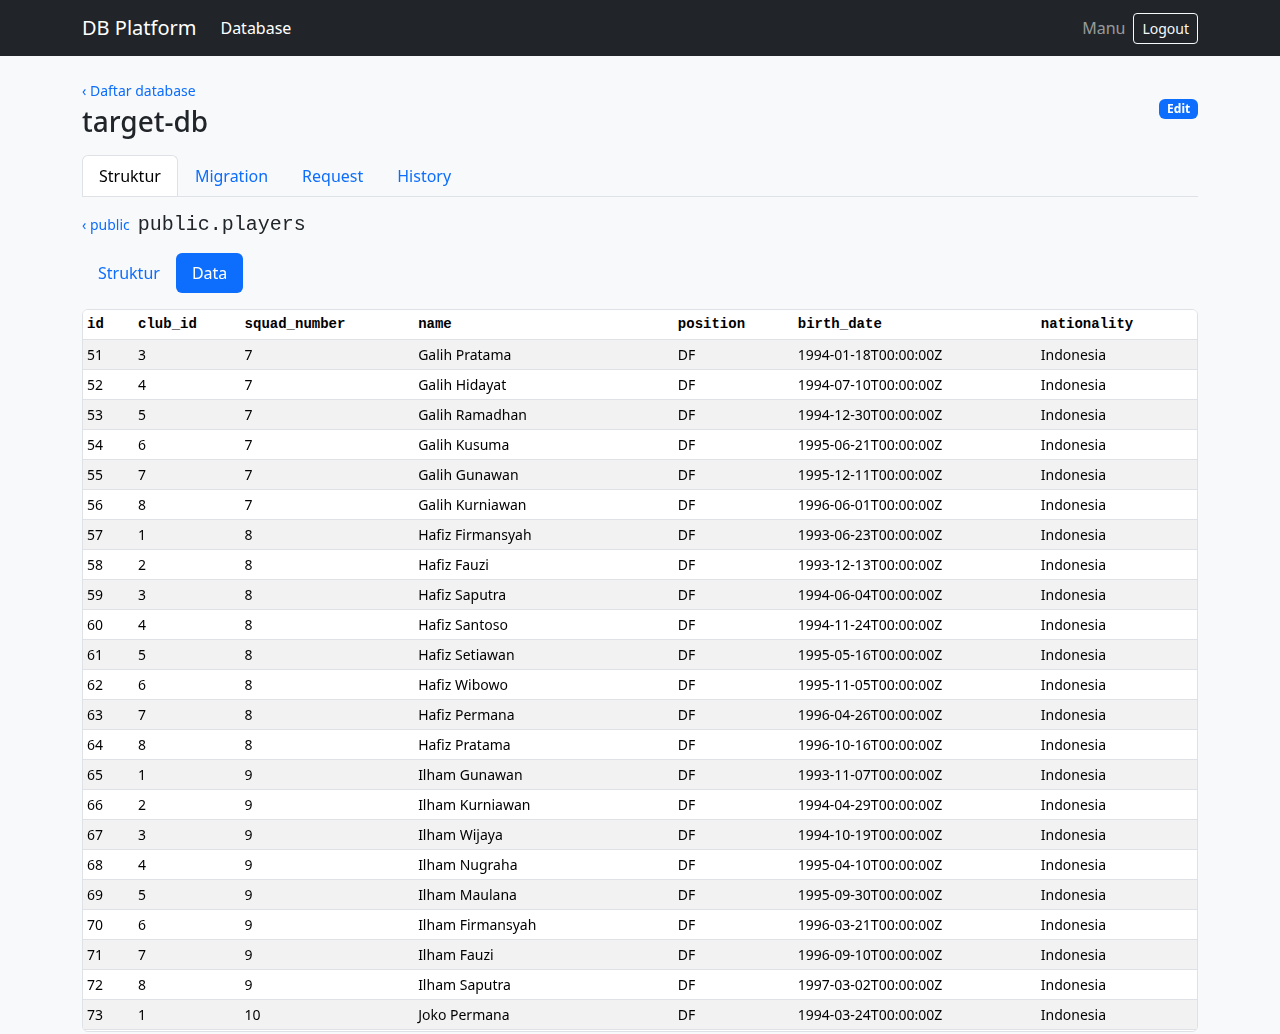
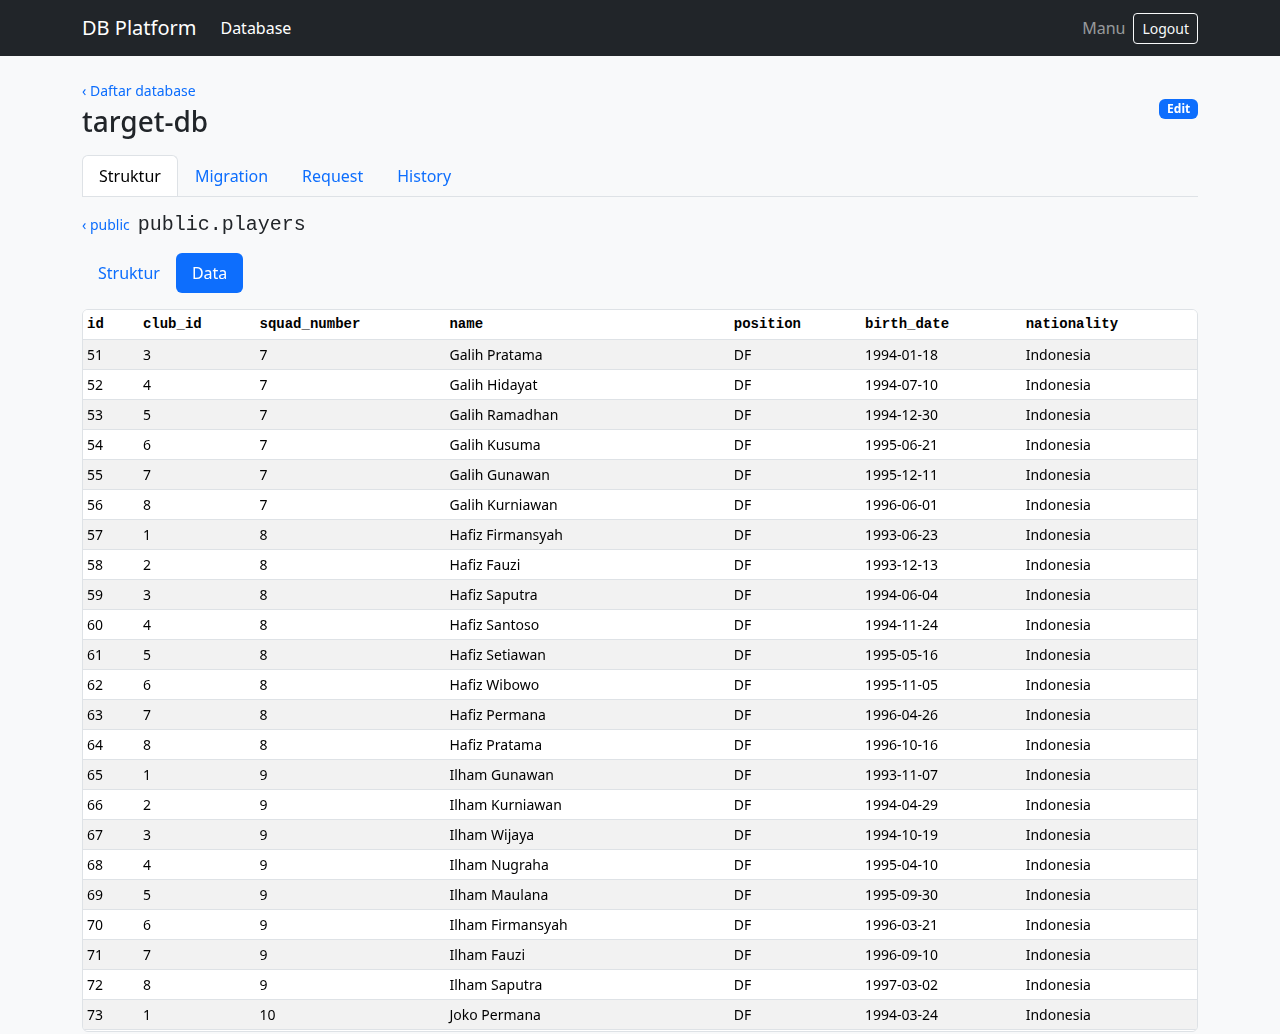
fix: format tanggal viewer dan nama user di request serta history

diff --git a/frontend/src/pages/workflow/RequestDetail.jsx b/frontend/src/pages/workflow/RequestDetail.jsx
@@ -125,7 +125,7 @@ export function RequestDetail() {
               <h3 className="h6">Info</h3>
               <dl className="row mb-0">
                 <dt className="col-5 fw-normal text-secondary">Pengaju</dt>
-                <dd className="col-7">{actorName(r.requested_by, user)}</dd>
+                <dd className="col-7">{actorName(r.requested_by, user, r.requested_by_name)}</dd>
                 <dt className="col-5 fw-normal text-secondary">Revisi</dt>
                 <dd className="col-7">{r.revision}</dd>
                 {r.target_execution_id && (
@@ -224,7 +224,7 @@ function Approvals({ request, me }) {
                     )}
                     {a.can_approve && <span className="badge text-bg-info ms-1">Kamu bisa menyetujui</span>}
                   </td>
-                  <td>{actorName(a.approved_by, me)}</td>
+                  <td>{actorName(a.approved_by, me, a.approved_by_name)}</td>
                   <td className="text-nowrap">{formatTime(a.approved_at)}</td>
                 </tr>
               ))}

diff --git a/frontend/src/components/labels.js b/frontend/src/components/labels.js
@@ -55,8 +55,9 @@ export function formatTime(value) {
   return date.toLocaleString('id-ID', { dateStyle: 'medium', timeStyle: 'short' })
 }
 
-// nama aktor: "Kamu" kalau ID-nya sama dengan user login, selain itu "User #id"
-export function actorName(id, me) {
+// user login ditandai "Kamu"; selain itu pakai nama dari API, fallback ke ID kalau API ga ngirim nama
+export function actorName(id, me, name) {
   if (!id) return '—'
-  return id === me?.id ? 'Kamu' : `User #${id}`
+  if (id === me?.id) return 'Kamu'
+  return name || `User #${id}`
 }

diff --git a/frontend/src/pages/workflow/ExecutionDetail.jsx b/frontend/src/pages/workflow/ExecutionDetail.jsx
@@ -73,7 +73,7 @@ export function ExecutionDetail() {
                   </>
                 )}
                 <dt className="col-5 fw-normal text-secondary">Oleh</dt>
-                <dd className="col-7">{actorName(e.executed_by, user)}</dd>
+                <dd className="col-7">{actorName(e.executed_by, user, e.executed_by_name)}</dd>
                 {e.progress?.committed_rows > 0 && (
                   <>
                     <dt className="col-5 fw-normal text-secondary">Row ter-commit</dt>

diff --git a/frontend/src/pages/workflow/History.jsx b/frontend/src/pages/workflow/History.jsx
@@ -89,7 +89,7 @@ export function History() {
                   <td>
                     <JobStatusBadge status={e.status} />
                   </td>
-                  <td>{actorName(e.executed_by, user)}</td>
+                  <td>{actorName(e.executed_by, user, e.executed_by_name)}</td>
                   <td className="text-nowrap">{formatTime(e.started_at)}</td>
                   <td className="text-nowrap">{formatTime(e.finished_at)}</td>
                 </tr>

diff --git a/frontend/src/pages/workflow/Requests.jsx b/frontend/src/pages/workflow/Requests.jsx
@@ -56,7 +56,7 @@ export function Requests() {
                   <td>
                     <ReviewStatusBadge status={r.review_status} />
                   </td>
-                  <td>{actorName(r.requested_by, user)}</td>
+                  <td>{actorName(r.requested_by, user, r.requested_by_name)}</td>
                   <td className="small text-nowrap">{formatTime(r.created_at)}</td>
                 </tr>
               ))}

diff --git a/frontend/src/components/labels.test.js b/frontend/src/components/labels.test.js
@@ -10,6 +10,7 @@ it('formatTime aman buat null dan string aneh', () => {
 it('actorName nandain user login sebagai Kamu', () => {
   expect(actorName('1', { id: '1' })).toBe('Kamu')
   expect(actorName('7', { id: '1' })).toBe('User #7')
+  expect(actorName('7', { id: '1' }, 'Akram')).toBe('Akram')
   expect(actorName(null, { id: '1' })).toBe('—')
 })
 

diff --git a/src/migration/history.go b/src/migration/history.go
@@ -36,6 +36,8 @@ type ExecutionResponse struct {
 	FinishedAt        *time.Time  `json:"finished_at"`
 	ErrorMessage      *string     `json:"error_message"`
 	SQLState          *string     `json:"sqlstate"`
+	MigrationTitle    string      `json:"migration_title"`
+	ExecutedByName    string      `json:"executed_by_name"`
 }
 
 type BatchAttempt struct {
@@ -77,6 +79,7 @@ func executionResponse(databaseID int64, execution Execution) ExecutionResponse 
 		TargetExecutionID: execution.TargetExecutionID, HistorySequence: execution.HistorySequence,
 		SQLSnapshot: execution.SQLSnapshot, Status: execution.Status, Progress: execution.Progress,
 		StartedAt: execution.StartedAt.UTC(), SQLState: execution.SQLState,
+		MigrationTitle: execution.MigrationTitle, ExecutedByName: execution.ExecutedByName,
 	}
 	if execution.FinishedAt.Valid {
 		finished := execution.FinishedAt.Time.UTC()
@@ -94,6 +97,10 @@ const databaseHistory = `WITH database_executions AS (
 	JOIN migrations m ON m.id = e.migration_id WHERE e.database_id = $1 AND m.database_id = $1
 ) `
 
+// judul migration dan nama pelaksana buat tampilan, biar SPA ga perlu nanya API admin
+const historyLabelColumns = `, (SELECT title FROM migrations WHERE id = e.migration_id),
+	(SELECT display_name FROM users WHERE id = e.executed_by)`
+
 // Pasangan hanya sah jika up/forward dan rollback sama-sama sukses pada migration yang sama.
 const historyListSQL = databaseHistory + `, rollback_pairs AS (
 	SELECT r.id, r.target_execution_id FROM database_executions r
@@ -102,7 +109,7 @@ const historyListSQL = databaseHistory + `, rollback_pairs AS (
 	WHERE r.operation = 'rollback' AND r.status = 'success'
 		AND original.status = 'success' AND original.operation IN ('up', 'forward')
 )
-SELECT ` + executionColumns + ` FROM database_executions e
+SELECT ` + executionColumns + historyLabelColumns + ` FROM database_executions e
 WHERE NOT $2 OR e.id NOT IN (
 	SELECT id FROM rollback_pairs UNION SELECT target_execution_id FROM rollback_pairs
 )
@@ -133,10 +140,12 @@ func GetHistory(ctx context.Context, db *sql.DB, user *auth.User, databaseID int
 	defer rows.Close()
 	executions = []Execution{}
 	for rows.Next() {
-		execution, err := scanExecution(rows)
+		var title, name string
+		execution, err := scanExecution(rows, &title, &name)
 		if err != nil {
 			return nil, false, err
 		}
+		execution.MigrationTitle, execution.ExecutedByName = title, name
 		executions = append(executions, *execution)
 	}
 	if err := rows.Err(); err != nil {
@@ -150,7 +159,7 @@ func GetHistory(ctx context.Context, db *sql.DB, user *auth.User, databaseID int
 	return executions, hasMore, nil
 }
 
-const historyDetailSQL = databaseHistory + `SELECT ` + executionColumns + ` FROM database_executions WHERE id = $2`
+const historyDetailSQL = databaseHistory + `SELECT ` + executionColumns + historyLabelColumns + ` FROM database_executions e WHERE id = $2`
 
 const batchAttemptsSQL = `SELECT id, execution_id, job_id, batch_number, direction,
 	first_id, last_id, sql_snapshot,
@@ -180,13 +189,15 @@ func GetExecutionDetail(ctx context.Context, db *sql.DB, user *auth.User, databa
 		return nil, err
 	}
 	args := []any{databaseID, executionID}
-	execution, err := scanExecution(tx.QueryRowContext(ctx, historyDetailSQL, args...))
+	var title, name string
+	execution, err := scanExecution(tx.QueryRowContext(ctx, historyDetailSQL, args...), &title, &name)
 	if errors.Is(err, sql.ErrNoRows) {
 		return nil, ErrNotFound
 	}
 	if err != nil {
 		return nil, err
 	}
+	execution.MigrationTitle, execution.ExecutedByName = title, name
 	detail = &ExecutionDetail{ExecutionResponse: executionResponse(databaseID, *execution), BatchAttempts: []BatchAttempt{}}
 	args = []any{executionID, limit + 1, offset}
 	rows, err := tx.QueryContext(ctx, batchAttemptsSQL, args...)

diff --git a/src/migration/workflow_reads.go b/src/migration/workflow_reads.go
@@ -49,7 +49,7 @@ func (s WorkflowService) List(ctx context.Context, user *auth.User, databaseID i
 	if err := workflowAuthorize(ctx, s.DB, user, auth.ViewMigration, databaseID); err != nil {
 		return nil, false, err
 	}
-	rows, err := s.DB.QueryContext(ctx, `SELECT `+requestColumns+`
+	rows, err := s.DB.QueryContext(ctx, `SELECT `+requestColumns+requestedByName+`
 		FROM migration_requests WHERE database_id = $1 ORDER BY created_at DESC, id DESC LIMIT $2 OFFSET $3`, databaseID, limit+1, offset)
 	if err != nil {
 		return nil, false, err
@@ -57,10 +57,12 @@ func (s WorkflowService) List(ctx context.Context, user *auth.User, databaseID i
 	defer rows.Close()
 	requests := []MigrationRequest{}
 	for rows.Next() {
-		request, err := scanRequest(rows)
+		var name string
+		request, err := scanRequest(rows, &name)
 		if err != nil {
 			return nil, false, err
 		}
+		request.RequestedByName = name
 		requests = append(requests, *request)
 	}
 	if err := rows.Err(); err != nil {
@@ -87,18 +89,21 @@ func (s WorkflowService) Get(ctx context.Context, user *auth.User, databaseID, r
 	if err := workflowAuthorize(ctx, tx, user, auth.ViewMigration, databaseID); err != nil {
 		return nil, err
 	}
-	request, err := scanRequest(tx.QueryRowContext(ctx, `SELECT `+requestColumns+`
-		FROM migration_requests WHERE database_id = $1 AND id = $2`, databaseID, requestID))
+	var name string
+	request, err := scanRequest(tx.QueryRowContext(ctx, `SELECT `+requestColumns+requestedByName+`
+		FROM migration_requests WHERE database_id = $1 AND id = $2`, databaseID, requestID), &name)
 	if err != nil {
 		return nil, err
 	}
+	request.RequestedByName = name
 	detail := &RequestDetail{MigrationRequest: *request, Approvals: []RequestApproval{}, PendingGroupIDs: []string{}, AllowedActions: []string{}}
 	detail.WorkflowStatus = request.ReviewStatus
 	rows, err := tx.QueryContext(ctx, `
-		SELECT a.group_id, a.group_name_snapshot, a.approved_by, a.approved_at,
+		SELECT a.group_id, a.group_name_snapshot, a.approved_by, approver.display_name, a.approved_at,
 			a.approved_by IS NULL AND (g.is_archived OR u.id IS NULL),
 			a.approved_by IS NULL AND NOT g.is_archived AND u.id = $2
 		FROM migration_approvals a JOIN groups g ON g.id = a.group_id
+		LEFT JOIN users approver ON approver.id = a.approved_by
 		LEFT JOIN users u ON u.id = g.leader_user_id AND u.is_active
 			AND EXISTS (SELECT 1 FROM user_groups ug WHERE ug.group_id = g.id AND ug.user_id = u.id)
 		WHERE a.request_id = $1 ORDER BY a.group_id`, requestID, user.ID)
@@ -108,7 +113,7 @@ func (s WorkflowService) Get(ctx context.Context, user *auth.User, databaseID, r
 	for rows.Next() {
 		var approval RequestApproval
 		var canApprove sql.NullBool
-		if err := rows.Scan(&approval.GroupID, &approval.GroupName, &approval.ApprovedBy, &approval.ApprovedAt, &approval.WaitingForLeader, &canApprove); err != nil {
+		if err := rows.Scan(&approval.GroupID, &approval.GroupName, &approval.ApprovedBy, &approval.ApprovedByName, &approval.ApprovedAt, &approval.WaitingForLeader, &canApprove); err != nil {
 			rows.Close()
 			return nil, err
 		}

diff --git a/src/migration/workflow.go b/src/migration/workflow.go
@@ -56,6 +56,7 @@ type MigrationRequest struct {
 	SourceJobID       *int64             `json:"source_job_id,string"`
 	ReviewStatus      string             `json:"review_status"`
 	RequestedBy       int64              `json:"requested_by,string"`
+	RequestedByName   string             `json:"requested_by_name,omitempty"` // cuma diisi list dan detail
 	Snapshot          DefinitionSnapshot `json:"snapshot"`
 	CreatedAt         time.Time          `json:"created_at"`
 	UpdatedAt         time.Time          `json:"updated_at"`
@@ -66,6 +67,7 @@ type RequestApproval struct {
 	GroupID          int64      `json:"group_id,string"`
 	GroupName        string     `json:"group_name"`
 	ApprovedBy       *int64     `json:"approved_by,string"`
+	ApprovedByName   *string    `json:"approved_by_name"`
 	ApprovedAt       *time.Time `json:"approved_at"`
 	WaitingForLeader bool       `json:"waiting_for_leader"`
 	CanApprove       bool       `json:"can_approve"`
@@ -108,6 +110,9 @@ type workflowQueryer interface {
 	QueryContext(context.Context, string, ...any) (*sql.Rows, error)
 	QueryRowContext(context.Context, string, ...any) *sql.Row
 }
+
+// nama pengaju ikut dibaca di list dan detail biar reviewer tau siapa yang ngajuin
+const requestedByName = `, (SELECT display_name FROM users WHERE id = requested_by)`
 
 const requestColumns = `id, database_id, migration_id, revision, operation,
 	target_execution_id, source_job_id, review_status, requested_by,
@@ -155,12 +160,13 @@ func workflowAuthorize(ctx context.Context, db workflowQueryer, user *auth.User,
 }
 
 // scanRequest membaca snapshot dan mengubah waktu ke UTC tanpa mengekspos tipe nullable SQL.
-func scanRequest(row interface{ Scan(...any) error }) (*MigrationRequest, error) {
+// extra nampung kolom tambahan setelah requestColumns, urutannya sama kayak di SELECT
+func scanRequest(row interface{ Scan(...any) error }, extra ...any) (*MigrationRequest, error) {
 	var request MigrationRequest
 	var snapshot []byte
-	err := row.Scan(&request.ID, &request.DatabaseID, &request.MigrationID, &request.Revision,
+	err := row.Scan(append([]any{&request.ID, &request.DatabaseID, &request.MigrationID, &request.Revision,
 		&request.Operation, &request.TargetExecutionID, &request.SourceJobID, &request.ReviewStatus,
-		&request.RequestedBy, &snapshot, &request.CreatedAt, &request.UpdatedAt, &request.SubmittedAt)
+		&request.RequestedBy, &snapshot, &request.CreatedAt, &request.UpdatedAt, &request.SubmittedAt}, extra...)...)
 	if errors.Is(err, sql.ErrNoRows) {
 		return nil, ErrNotFound
 	}

diff --git a/src/migration/migration.go b/src/migration/migration.go
@@ -56,6 +56,9 @@ type Execution struct {
 	HistorySequence   *int64
 	SQLState          *string
 	Progress          JobProgress
+	// label buat tampilan, cuma diisi query history
+	MigrationTitle string
+	ExecutedByName string
 }
 
 const migrationColumns = `id, database_id, version, title, description,
@@ -467,9 +470,10 @@ func discardConnection(conn *sql.Conn) {
 }
 
 // scanExecution dipakai pembaca M1 dan history M2 agar pemetaan snapshot serta metadata tidak digandakan.
-func scanExecution(row interface{ Scan(...any) error }) (*Execution, error) {
+// extra nampung kolom tambahan setelah executionColumns, urutannya sama kayak di SELECT
+func scanExecution(row interface{ Scan(...any) error }, extra ...any) (*Execution, error) {
 	var execution Execution
-	err := row.Scan(
+	err := row.Scan(append([]any{
 		&execution.ID, &execution.MigrationID, &execution.ExecutedBy,
 		&execution.SQLSnapshot, &execution.Status, &execution.StartedAt,
 		&execution.FinishedAt, &execution.ErrorMessage,
@@ -478,7 +482,7 @@ func scanExecution(row interface{ Scan(...any) error }) (*Execution, error) {
 		&execution.TargetExecutionID, &execution.HistorySequence, &execution.SQLState,
 		&execution.Progress.TotalRows, &execution.Progress.CommittedRows, &execution.Progress.CommittedBatches,
 		&execution.Progress.RevertedRows, &execution.Progress.RevertedBatches, &execution.Progress.LastCursor,
-	)
+	}, extra...)...)
 	if err != nil {
 		return nil, err
 	}

diff --git a/src/database/viewer.go b/src/database/viewer.go
@@ -6,6 +6,7 @@ import (
 	"encoding/hex"
 	"errors"
 	"strings"
+	"time"
 )
 
 const MaxPageSize = 500
@@ -253,12 +254,15 @@ func GetTableData(ctx context.Context, db *sql.DB, schema, table string, limit, 
 			return nil, err
 		}
 		for i, value := range values {
-			if raw, ok := value.([]byte); ok {
+			switch v := value.(type) {
+			case []byte:
 				if columnTypes[i].DatabaseTypeName() == "BYTEA" {
-					values[i] = `\x` + hex.EncodeToString(raw)
+					values[i] = `\x` + hex.EncodeToString(v)
 				} else {
-					values[i] = string(raw)
+					values[i] = string(v)
 				}
+			case time.Time:
+				values[i] = formatTime(columnTypes[i].DatabaseTypeName(), v)
 			}
 		}
 		data.Rows = append(data.Rows, values)
@@ -271,6 +275,19 @@ func GetTableData(ctx context.Context, db *sql.DB, schema, table string, limit, 
 		data.Rows = data.Rows[:limit]
 	}
 	return data, nil
+}
+
+// formatTime nampilin tanggal/waktu kayak teks PostgreSQL, bukan RFC3339 bawaan JSON.
+// DATE ga punya jam, TIMESTAMP ga punya zona, TIMESTAMPTZ tetap bawa offset-nya
+func formatTime(typeName string, value time.Time) string {
+	switch typeName {
+	case "DATE":
+		return value.Format(time.DateOnly)
+	case "TIMESTAMP":
+		return value.Format("2006-01-02 15:04:05.999999")
+	default:
+		return value.Format("2006-01-02 15:04:05.999999Z07:00")
+	}
 }
 
 func checkSchema(ctx context.Context, db *sql.DB, schema string) error {

diff --git a/test/database/viewer_test.go b/test/database/viewer_test.go
@@ -158,3 +158,18 @@ func TestViewerJSONAndGeneratedTableLinks(t *testing.T) {
 		}
 	}
 }
+
+// tanggal dan waktu tampil kayak teks PostgreSQL: DATE tanpa jam, TIMESTAMP tanpa zona
+func TestViewerFormatsDateAndTime(t *testing.T) {
+	f := testdb.New(t)
+	testdb.Exec(t, f.Target, `CREATE TABLE public.times (d date, ts timestamp, tz timestamptz);
+		INSERT INTO public.times VALUES ('1994-01-18', '2026-11-26 19:45:30.5', '2026-11-26 12:45:30+00')`)
+	data, err := database.GetTableData(context.Background(), f.Target, "public", "times", 50, 0)
+	if err != nil {
+		t.Fatal(err)
+	}
+	row := data.Rows[0]
+	if row[0] != "1994-01-18" || row[1] != "2026-11-26 19:45:30.5" || !strings.HasPrefix(row[2].(string), "2026-11-26 ") {
+		t.Fatalf("format tanggal/waktu: %#v", row)
+	}
+}
